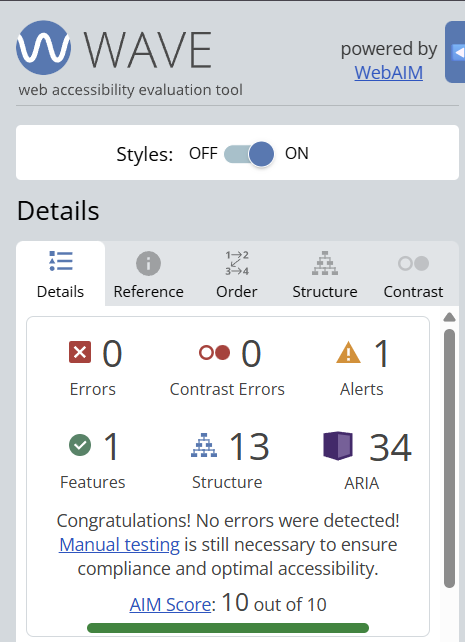
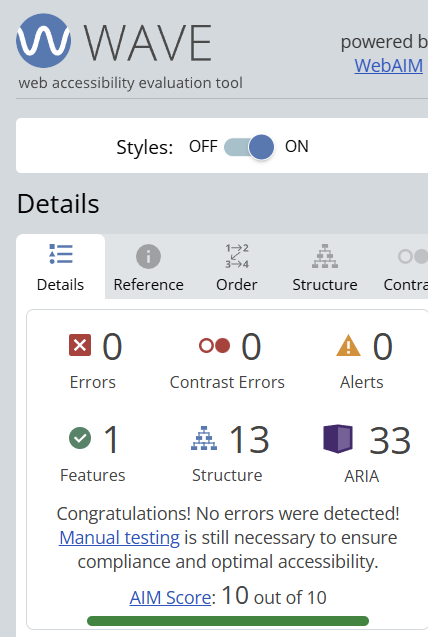
derniere coreection

diff --git a/README.md b/README.md
@@ -444,11 +444,11 @@ L'application a été développée en respectant les critères WCAG 2.1 AA :
 |---|---|
 | ❌ Errors | **0** ✅ |
 | 🔴 Contrast Errors | **0** ✅ |
-| ⚠ Alerts | **1** (lien redondant, mineur) |
+| ⚠ Alerts | **0** ✅ |
 | ✅ Features | **1** |
 | 🏛 Structure | **13** |
 | 🔵 ARIA | **34** |
-| **AIM Score** | **9.9 / 10** ✅ |
+| **AIM Score** | **10 / 10** ✅ |
 
 ### Rapport Lighthouse
 
